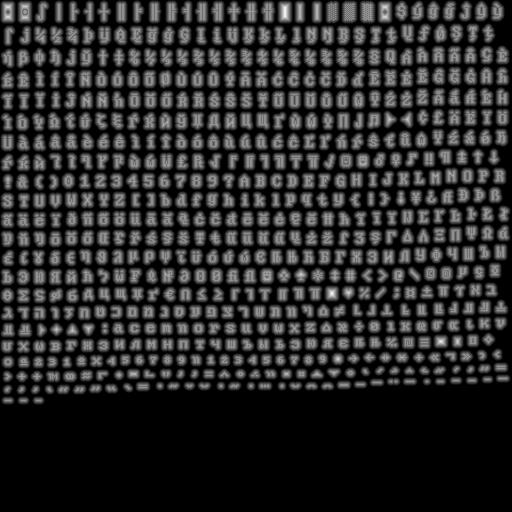
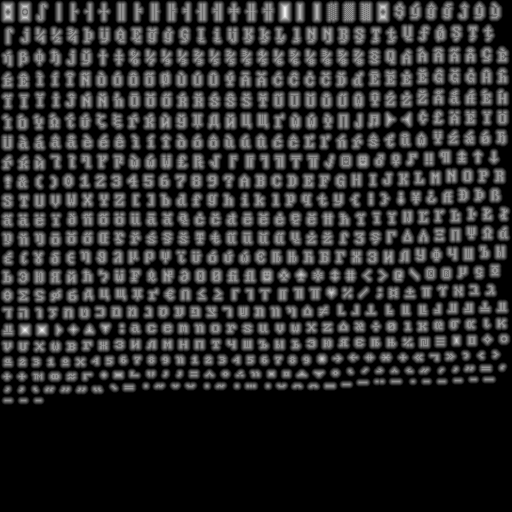
Tweak font

Changed region(s): [[0.0, 0.5312, 1.0, 0.7812], [0.6875, 0.0, 1.0, 0.0625]]

diff --git a/README.md b/README.md
@@ -14,5 +14,4 @@ Acknowledgements:
 Start with: `npm start` (after running `npm i` once)
 
 TODO:
-* tweak font so that half blocks are exactly half
 * add score (total + shown per-minigame)
